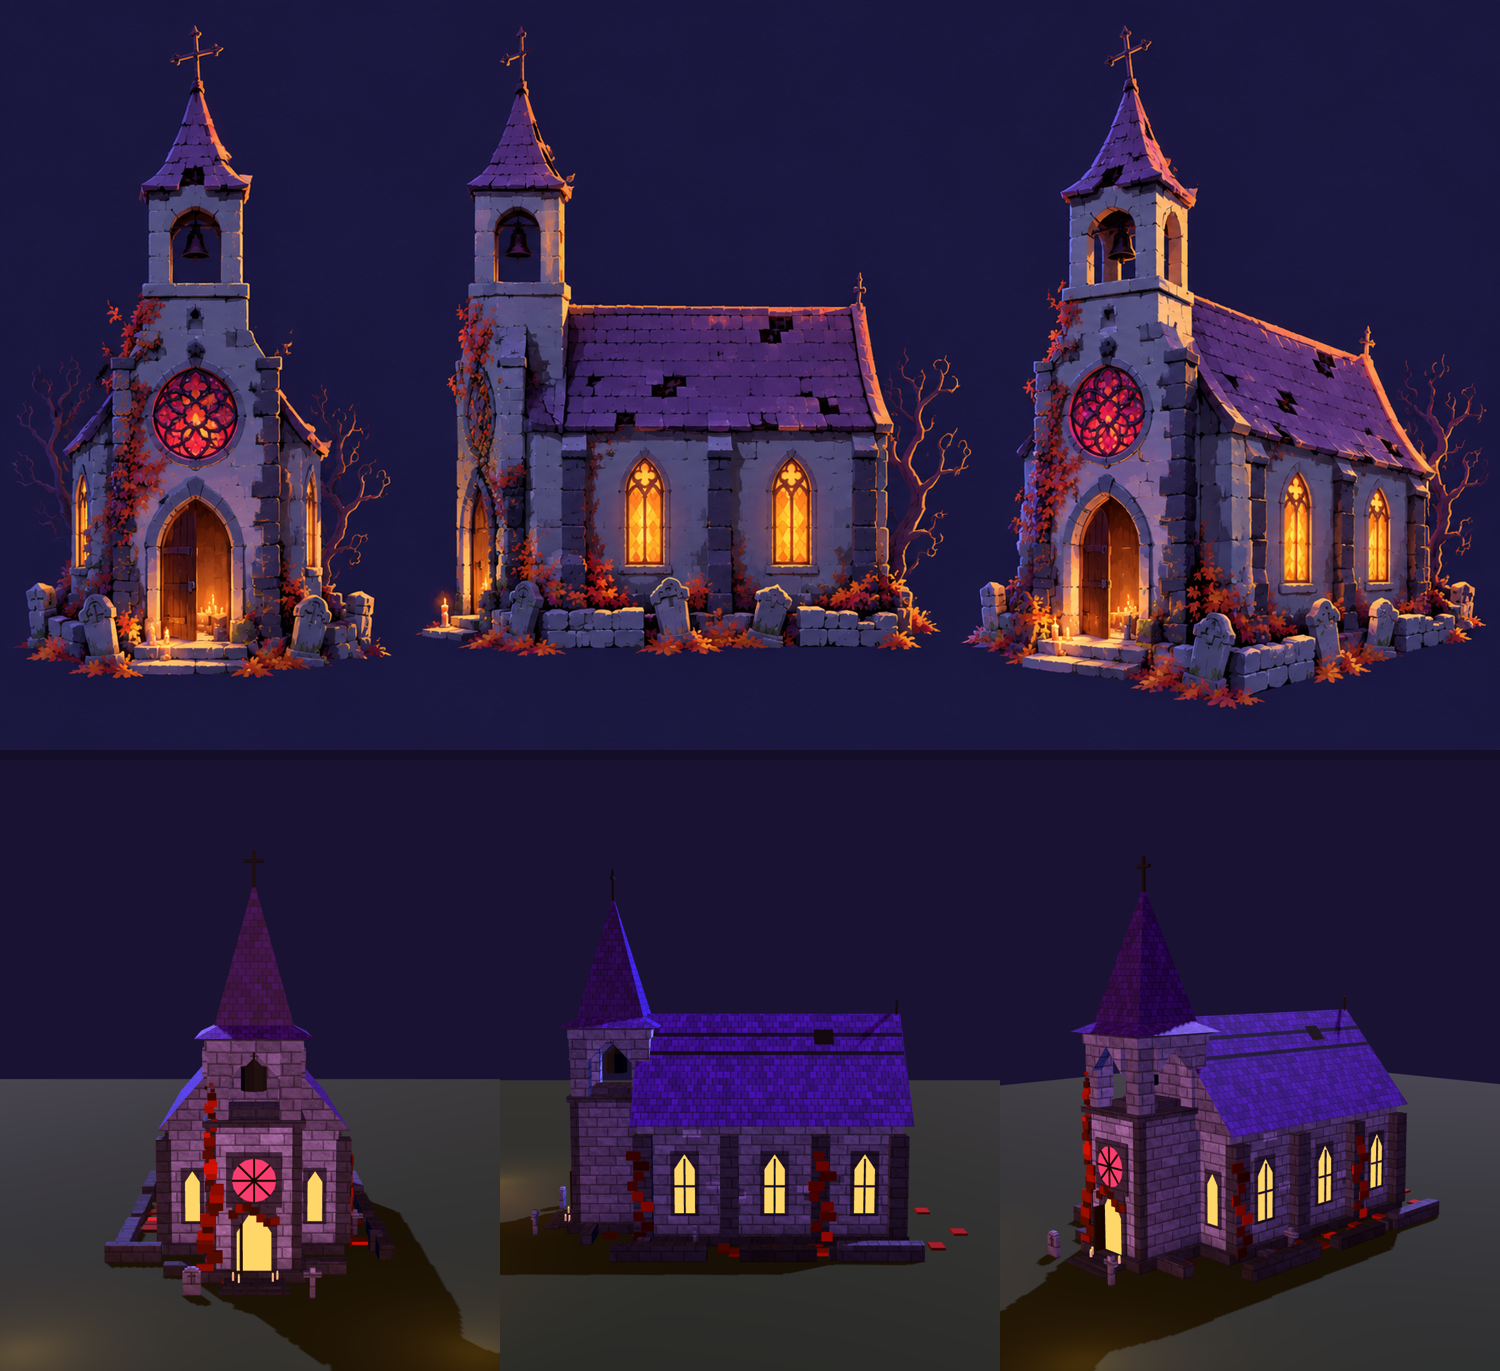
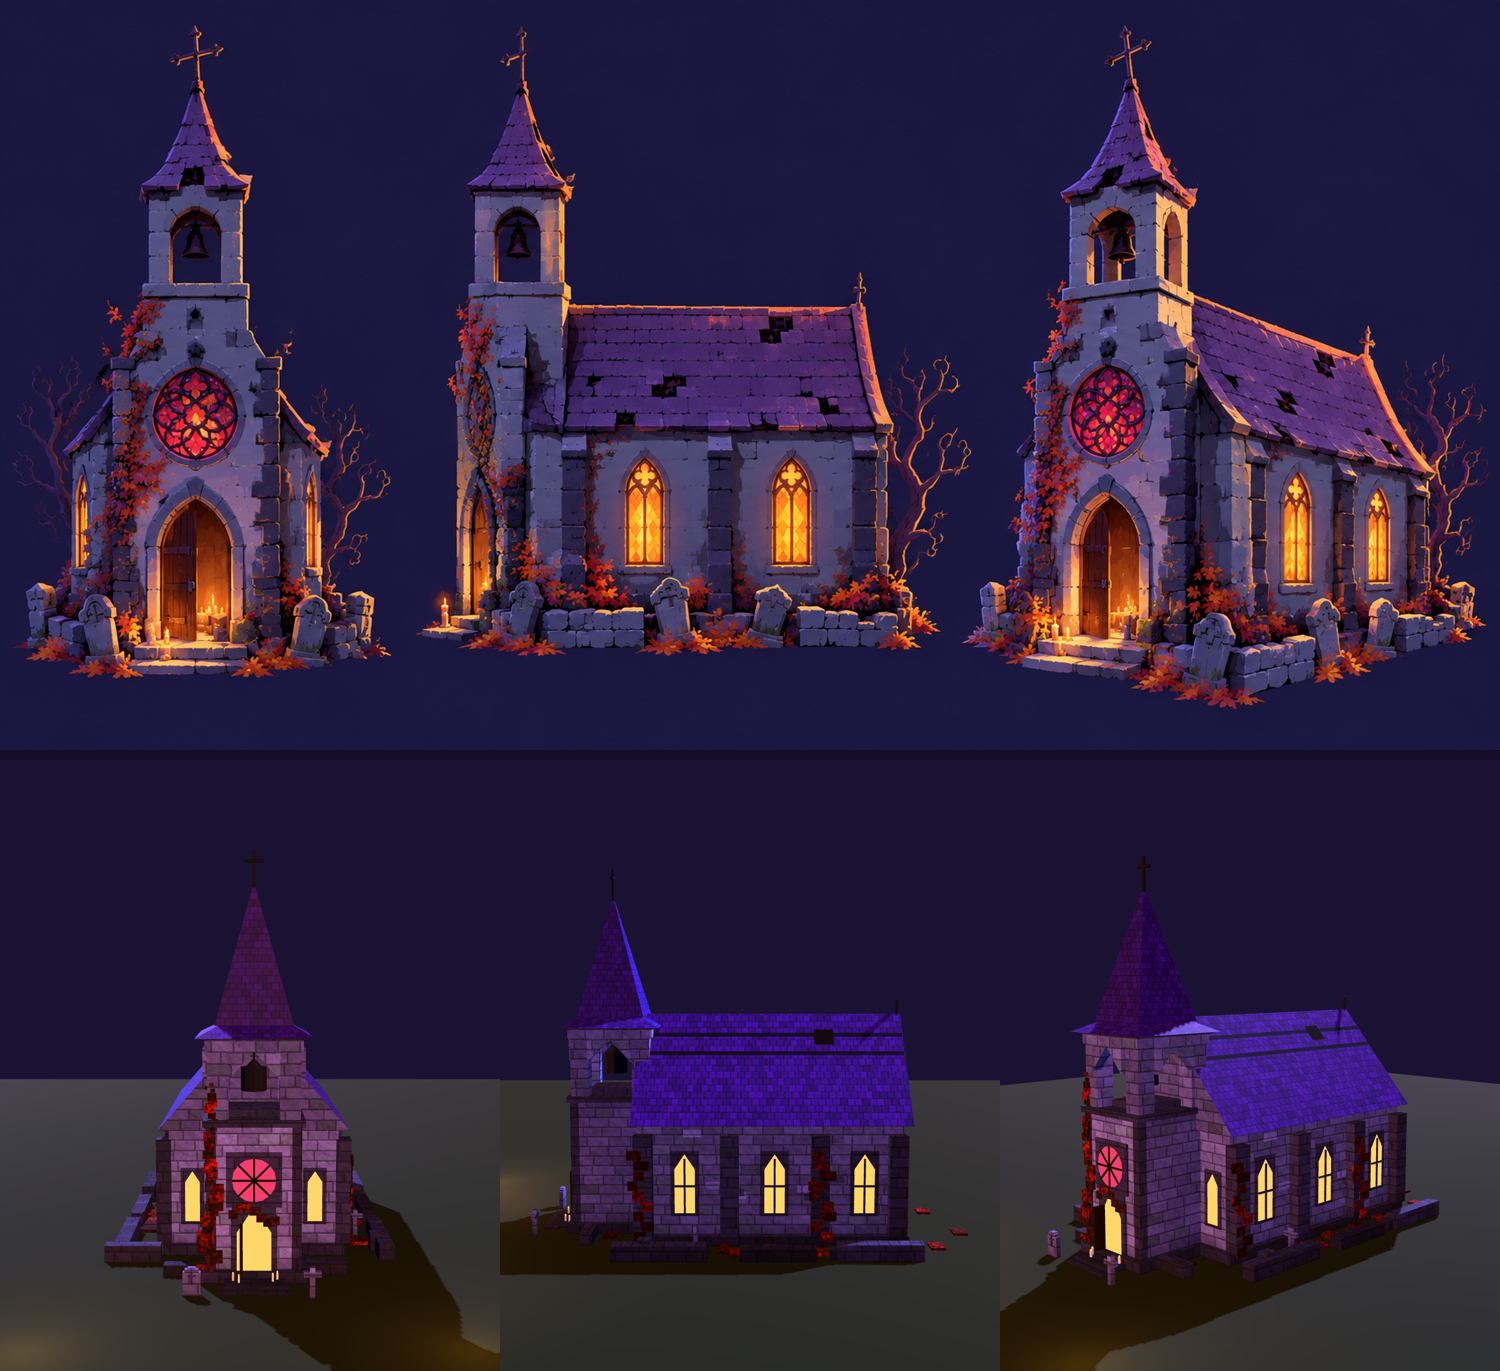
Chapel and house: leaves drawn as leaves, stone courses of uneven blocks with a little moss
The ivy, leaf drifts, baskets and mums take a leaf pattern (overlapping leaves, shadow between,
some turned orange) in place of flat red; stone blocks vary in length course to course. No new
images or geometry: the chapel is still ~25 KB and the house ~19 KB downloaded.

Claude-Session: https://claude.ai/code/session_01VAUjUguVX6tbdgmz3FqzWB

diff --git a/golf/tools/landmarks.py b/golf/tools/landmarks.py
@@ -27,7 +27,7 @@ STAINED = (0.95, 0.18, 0.32)     # a chapel's rose window: red-violet glass lit 
 # Surface kinds for the patterned landmark material (game/shaders/landmark.gdshader): the vertex colour's
 # alpha says what a face is made of, and the shader draws it there (stone blocks, slates, clapboards,
 # brick, wood planks) over textures every hole already loads. No image of its own to download.
-SURFACE = {"stone": 0.9, "slate": 0.8, "clap": 0.7, "brick": 0.6, "wood": 0.5, "plain": 0.4}
+SURFACE = {"stone": 0.9, "slate": 0.8, "clap": 0.7, "brick": 0.6, "wood": 0.5, "plain": 0.4, "leaf": 0.3}
 
 
 class Parts:
@@ -632,5 +632,6 @@ def house(col, name, pos, rot_z=0.0, scale=1.0):
 KIND_OF = {
     CHAPEL_STONE: "stone", QUOIN: "stone", CHAPEL_ROOF: "slate", SLATE_LINE: "slate", OAK: "wood",
     HOUSE_SIDING: "clap", CLAP_LINE: "clap", HOUSE_ROOF: "slate", BRICK: "brick", RED_DOOR: "wood",
-    SHUTTER: "wood", POT: "brick",
+    SHUTTER: "wood", POT: "brick", LEAVES: "leaf", (0.66, 0.24, 0.07): "leaf", (0.45, 0.1, 0.07): "leaf",
+    (0.85, 0.42, 0.08): "leaf",
 }
